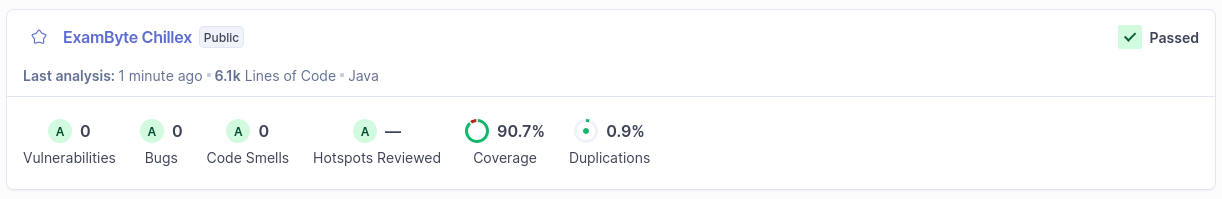
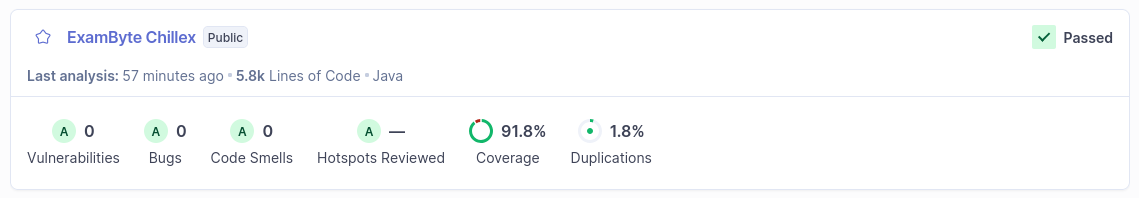
Update docs, adding some more demo pics

diff --git a/docs/STYLEGUIDE.md b/docs/STYLEGUIDE.md
@@ -2,13 +2,28 @@
 
 >**Autor**: Marvin0109,
 >**erstellt am**: 08.01.2025,
->**aktualisiert am**: 18.03.2026
+>**aktualisiert am**: 24.03.2026
 
 > [!NOTE]
 > Dieser Styleguide enthält die Formatierung- und Konventionsregeln für unser Projekt. Ziel ist es,
 die Zusammenarbeit zu erleichtern und die Codequalität zu sichern.
 Er wurde ursprünglich für ein Team von 5 Entwickler:innen erstellt, wird aktuell jedoch von einer Person gepflegt 
 und angepasst, die das Projekt privat weiterführt.
+
+## Übersicht
+
+- [Formatierung](#formatierung)
+- [Technologien und Versionen](#technologien-und-versionen)
+- [Code-Stil](#code-stil)
+- [Versionierung](#versionierung-git)
+- [Testing und Qualitätssicherung](#testing-und-qualitätssicherung)
+- [HTML-Regeln](#html-regeln)
+- [Thymeleaf-Regeln](#thymeleaf-regeln)
+- [Sicherheit](#sicherheit)
+- [QA (Demo)](#quality-assurance-demo)
+- [Ressourcen](#ressourcen)
+- [Fun Facts](#fun-facts)
+- [Schlussbemerkung](#schlussbemerkung)
 
 ## Allgemeine Regeln
 
@@ -60,6 +75,12 @@ und angepasst, die das Projekt privat weiterführt.
   (Datenbank-Migrations-Tool)
 - **SonarQube:** Version **7.2.2.6593**
   (Scanning tool für Erkennen von Code Smells)
+
+### Github OAuth-App
+
+Verwendung einer *Authorized OAuth App ExamByte* von `Marvin0109`.
+
+(Nach Bedarf kann man selber eine erstellen und sie anbinden ans Projekt, wichtig hier sind die Umgebungsvariablen zu setzen in einer eigenen `.env`)
 
 ### Entwicklungsumgebung
 - **IDE:** Wir verwenden IntelliJ IDEA, am besten die Ultimate-Edition, für die andere Versionen bezüglich Datenbanken
@@ -122,7 +143,7 @@ siehe [hier.](#datenbank)
 - Nach Bedarf auch *@link* und *@see* verwenden im Beschreibungstext für Verweise auf Variablen, Klassen oder sonstiges.
 - Testklassen auch dokumentieren bei Bedarf, siehe [hier.](#dokumentation-der-tests)
 
-## Versionierung
+## Versionierung (Git)
 
 ### Branch-Namen
 - Aktueller Hauptbranch: `main`
@@ -173,7 +194,7 @@ siehe [hier.](#datenbank)
    ```
    git commit -m "[BugFix]: Fix login button issue. Closes #1"
 
-### Testing und Qualitätssicherung
+## Testing und Qualitätssicherung
 - Wir verwenden **JUnit**, **Mockito**, **ArchUnit** und **Testcontainers**.
 
 ### Namenskonventionen für Tests
@@ -209,15 +230,6 @@ mehr ausreicht.
 - Um einen bestandenen Gesamtstatus zu erreichen, sind sämtliche Hinweise 
 von Sonar zu berücksichtigen und die Testabdeckung in einem guten Bereich zu halten.
 - Siehe aktuelle [Sonar Übersicht](#sonarqube-übersicht)
-## Tools
-
-### Versionskontrolle
-- Git-Workflow
-- Authorized OAuth App ExamByte owned by 'Marvin0109' (Nach Bedarf kann man selber eine erstellen und sie 
-  anbinden ans Projekt, wichtig hier sind die Umgebungsvariablen zu setzen in einer eigenen `.env`)
-
-### Build-Tool
-- Gradle
 
 ## HTML-Regeln
 
@@ -435,13 +447,13 @@ Das eingefügte Script wird nicht ausgeführt.
 > 
 > `th:utext` behandelt alles als `raw` statt wie `th:text`.
 
-## Quality Assurance
+## Quality Assurance (Demo)
 
-## JacocoTestReport
+### JacocoTestReport
 
-![JacocoTestReport](/src/main/resources/static/public/pictures/quality_assurance/JacocoTest_Report-18-03-2026.png)
+![JacocoTestReport](/src/main/resources/static/public/pictures/quality_assurance/JacocoTest_Report-24-03-2026.png)
 
-## SonarQube Übersicht
+### SonarQube Übersicht
 
 ![SonarQube Overview](/src/main/resources/static/public/pictures/quality_assurance/sonarOverview.png)
 
@@ -460,56 +472,56 @@ Das eingefügte Script wird nicht ausgeführt.
 ### Codelines Statistik
 
 Mit `cloc` kann man anzeigen lassen, wie viel Codezeilen man hat und auch in welcher Sprache.
-Hier die Statistik vom 18.03.2026 (`JSON`, `YAML` `CSS` usw. wegen *FontAwesome* und *Bootstrap*):
+Hier die Statistik vom 24.03.2026 (`JSON`, `YAML` `CSS` usw. wegen *FontAwesome* und *Bootstrap*):
 ```
 $ cloc .
 
-github.com/AlDanial/cloc v 1.98  T=3.28 s (1559.5 files/s, 157817.1 lines/s)
+github.com/AlDanial/cloc v 1.98  T=4.11 s (1239.8 files/s, 125872.7 lines/s)
 -------------------------------------------------------------------------------
 Language                     files          blank        comment           code
 -------------------------------------------------------------------------------
 JSON                             3              0              0         225011
-YAML                             8              9              0         113720
-CSS                             42           9297            266          60375
+YAML                             9             13              0         113764
+CSS                             41           9293            266          60357
 JavaScript                      23           1620           2779          30956
-HTML                           444           1657            121          20769
+HTML                           433           1650            126          20322
 SVG                           4180              0             30          16726
-Java                           279           3462            642          13014
+Java                           266           3393            551          12662
 SCSS                            20             98             85           7718
-XML                            100             25              0           7227
-Markdown                         6            386              7           1323
+XML                             98             28              0           7158
+Markdown                         6            402              7           1407
 Text                             4             61              0            158
 SQL                              2             23              0            132
 Bourne Shell                     1             28            118            105
 Maven                            1              9              9             88
-Gradle                           2             23             25             84
+Gradle                           2             20              9             83
 DOS Batch                        1             21              2             71
 PlantUML                         2              5              1             20
 Properties                       4              0              1             12
 -------------------------------------------------------------------------------
-SUM:                          5122          16724           4086         497509
+SUM:                          5096          16664           3984         496750
 -------------------------------------------------------------------------------
 
 $ cloc src/main/java/
 
-github.com/AlDanial/cloc v 1.98  T=0.09 s (2151.7 files/s, 89464.7 lines/s)
+github.com/AlDanial/cloc v 1.98  T=0.08 s (2377.1 files/s, 100436.2 lines/s)
 -------------------------------------------------------------------------------
 Language                     files          blank        comment           code
 -------------------------------------------------------------------------------
-Java                           195           1746            301           6061
+Java                           183           1677            223           5832
 -------------------------------------------------------------------------------
-SUM:                           195           1746            301           6061
+SUM:                           183           1677            223           5832
 -------------------------------------------------------------------------------
 
 $ cloc src/test/java/
 
-github.com/AlDanial/cloc v 1.98  T=0.06 s (1341.4 files/s, 143876.8 lines/s)
+github.com/AlDanial/cloc v 1.98  T=0.06 s (1462.7 files/s, 156388.9 lines/s)
 -------------------------------------------------------------------------------
 Language                     files          blank        comment           code
 -------------------------------------------------------------------------------
-Java                            84           1716            341           6953
+Java                            83           1716            328           6830
 -------------------------------------------------------------------------------
-SUM:                            84           1716            341           6953
+SUM:                            83           1716            328           6830
 -------------------------------------------------------------------------------
 ```
 
@@ -617,8 +629,11 @@ Fast-forward
 ```
 
 ## Schlussbemerkung
-- Das Projekt startete ursprünglich mit 5 Teilnehmer:innen. Nach Abschluss der Klausur arbeiteten 
+- Das Projekt startete ursprünglich mit 5 Teilnehmer:innen. Nach Abschluss der Klausur arbeitete 
 schließlich nur noch ich als alleiniger Entwickler weiter.
 - Vielen Dank an alle ursprünglichen Teammitglieder für ihre Unterstützung und Beiträge.
-- Die Weiterentwicklung des Projekts wird derzeit von mir allein durchgeführt. 
-Mit Geduld und konzentrierter Arbeit ist es gelungen, das Projekt erfolgreich abzuschließen.
+- Die Weiterentwicklung des Projekts wurde von mir allein durchgeführt. 
+Mit Geduld und konzentrierter Arbeit ist es gelungen, das Projekt erfolgreich abzuschließen 
+(weitere Details in [Readme](../README.md)).
+
+[Zurück zur Übersicht](#übersicht)

diff --git a/docs/arc42.md b/docs/arc42.md
@@ -6,9 +6,35 @@
 > - **Autor**: Marvin0109
 > - **Version**: 1.3
 > - **Erstellt am**: 03. Februar 2025
-> - **Aktualisiert am**: 18. März 2026
+> - **Aktualisiert am**: 24. März 2026
 > - **Zielgruppen**: Entwickler, Benutzer
 > - **Verwendete Werkzeuge**: PlantUML
+
+## Übersicht
+
+- [1. Einführung und Ziele](#1-einführung-und-ziele)
+  - [1.1 Aufgabenstellung](#11-aufgabenstellung)
+  - [1.2 Qualitätsziele](#12-qualitätsziele)
+  - [1.3 Stakeholder](#13-stakeholder)
+- [2. Randbedingung](#2-randbedingung)
+  - [2.1 Technische Randbedingungen](#21-technische-randbedingungen)
+  - [2.2 Organisatorisch](#22-organisatorisch)
+  - [2.3 Konventionen](#23-konventionen)
+- [3. Kontextabgrenzung](#3-kontextabgrenzung)
+  - [3.1 Fachlicher Kontext](#31-fachlicher-kontext)
+- [4. Lösungssicht](#4-lösungssicht)
+  - [4.1 Architekturübersicht](#41-architekturübersicht)
+  - [4.2 Hauptkomponenten](#42-hauptkomponenten)
+- [5. Bausteinsicht](#5-bausteinsicht)
+- [6. Laufzeitsicht](#6-laufzeitsicht)
+  - [6.1 Erstellung eines Tests](#61-erstellung-eines-tests)
+  - [6.2 Testdurchführung](#62-testdurchführung)
+  - [6.3 Bewertung eines Tests](#63-bewertung-eines-tests)
+  - [6.4 Zulassungsstatus](#64-zulassungsstatus)
+- [7. Verteilungssicht](#7-verteilungssicht)
+- [8. Qualitätsszenarien](#8-qualitätsszenarien)
+- [9. Risiken und technische Schulden](#9-risiken-und-technische-schulden)
+- [10. Glossar](#10-glossar)
 
 ## 1. Einführung und Ziele
 
@@ -167,15 +193,18 @@ Zulassung erreicht wurde oder nicht.
 - **Mögliche Risiken:**
   - **Verfügbarkeit der GitHub-OAuth-Integration**, insbesondere die Abhängigkeit von der OAuth-App 
   (keine Anmeldung möglich bei Github-Ausfall)
-  - **Gleichzeitige Korrektur von einer Aufgabe**, race condition möglich.
+  - **Gleichzeitige Korrektur von einer Aufgabe**, [race condition](#10-glossar) möglich.
 
 ---
 
 ## 10 Glossar
 
-| Begriff             | Bedeutung                                                                                                                         |
-|---------------------|-----------------------------------------------------------------------------------------------------------------------------------|
-| MC                  | Multiple-Choice                                                                                                                   |
-| SC                  | Single-Choice                                                                                                                     |
-| Administrator:innen | Da es sich um eine Anwendung zwischen Studierende und Professoren handelt, ist hier der Administrator:in mit Professor:in gemeint |
-| OAuth               | Offenes Authentifizierungsprotokoll                                                                                               |
+| Begriff             | Bedeutung                                                                                                                                                                      |
+|---------------------|--------------------------------------------------------------------------------------------------------------------------------------------------------------------------------|
+| MC                  | Multiple-Choice                                                                                                                                                                |
+| SC                  | Single-Choice                                                                                                                                                                  |
+| Administrator:innen | Da es sich um eine Anwendung zwischen Studierende und Professoren handelt, ist hier der Administrator:in mit Professor:in gemeint                                              |
+| OAuth               | Offenes Authentifizierungsprotokoll                                                                                                                                            |
+| Race condition      | Ein *race condition* entsteht, wenn mehrere Threads oder Prozesse auf gemeinsame Daten zugreifen und das Ergebnis davon abhängt, in welcher Reihenfolge sie ausgeführt werden. |
+
+[Zurück zur Übersicht](#übersicht)

diff --git a/docs/Activity_Protocol.md b/docs/Activity_Protocol.md
@@ -1,16 +1,14 @@
 # Aktueller Stand
 
 >**Autor:** Marvin0109,
->**aktualisiert am:** 20.03.2026
+>**aktualisiert am:** 24.03.2026
 
 > [!NOTE]
 > Seit dem 11.02.25 wird die Anwendung ausschließlich von Marvin0109 weiterentwickelt.
 > 
-> **UPDATE**:
-> 
-> Seit dem 18.03.26 wird die Weiterentwicklung von ExamByte eingestellt. Das nächste Update wäre die Vereinheitlichung
-> der Sprache vom Quellcode auf Englisch sowie die Überprüfung der restlichen Codekonventionen 
-> gemäß [Styleguide](STYLEGUIDE.md).
+> Seit dem 24.03.26 wurde die Weiterentwicklung von ExamByte eingestellt. Das letzte Update war die Vereinheitlichung
+> der Sprache vom Quellcode auf Englisch, die Überprüfung der restlichen Codekonventionen 
+> gemäß [Styleguide](STYLEGUIDE.md) und die Korrektur der Onion Architektur.
 
 ## Aktivitätsprotokoll
 
@@ -714,3 +712,17 @@ obligatorisch für die Grundfunktion von ExamByte in seiner ersten vollständige
 - Zugehörige `Mapper`, `Entity`, `DTO` usw. dementsprechend geändert
 - Zustand der Anwendung mithilfe von Regressionstest und manuelles Testing
 überprüft worden
+
+---
+
+### 22.03.2026 - 24.03.2026
+** Bereich:** Sprache / Onion Architektur / Error Page / UX
+- Sprachänderungen im Quellcode:
+  - `Frage` → `Question`
+  - Restliche Methodennamen und Felder
+- Verwendung einer generischen Fehlermeldungsseite für Frontend
+- Logik eingeführt: Student kann keine Lösungen mehr absenden nach Ablauf der Frist
+- Verschmelzung der `infrastructure.service`-Schicht mit `application.service.query`-Schicht
+- Korrektur der Onion Architektur und zusätzliche Tests
+- Extras und clean up
+- Dokumentationen aktualisiert (Inhaltsverzeichnis eingefügt)

diff --git a/README.md b/README.md
@@ -15,7 +15,7 @@
 - [Mitwirkende](#mitwirkende)
 
 > [!NOTE]
-> Die Weiterentwicklung von ExamByte endete am 18.03.2026. 
+> Die Weiterentwicklung von ExamByte endete am **24.03.2026**. 
 > 
 > Nach umfangreicher Entwicklungszeit wurde entschieden, die aktuelle Version als final zu betrachten und
 > keine weiteren Features oder Anpassungen mehr umzusetzen.
@@ -24,7 +24,7 @@
 > Der zugehörige Entwicklungs-Branch `feature/review-lock` wurde nicht gemerged und entsprechend verworfen.
 > Der aktuelle Stand wird als abgeschlossen betrachtet.
 >
-> Finale Codeüberprüfung wird noch stattfinden, für mehr Details siehe [To-do](docs/TO_DO.md).
+> Finale Codeüberprüfung ist abgeschlossen, für mehr Details wie mögliche Erweiterungen siehe [To-do](docs/TO_DO.md).
 > 
 
 ## Was ist ExamByte?

diff --git a/docs/TO_DO.md b/docs/TO_DO.md
@@ -1,7 +1,7 @@
 # Todo für ExamByte
 
 > **Autor:** Marvin0109,
-> **aktualisiert am:** 18.03.2026
+> **aktualisiert am:** 24.03.2026
 
 > [!IMPORTANT]
 > Die Tasks sollen in der gegebenen Reihenfolge bearbeitet werden wie sie aufgelistet sind.
@@ -19,7 +19,7 @@
 11. [X] CSV-Export einführen
 12. [X] Datenbankoptimierung und Stresstests
 13. [X] Vorschau von Prüfung für Professor
-14. [ ] Sicherstellung von Codekonventionen und Clean Up
+14. [X] Sicherstellung von Codekonventionen und Clean Up
 
 ---
 
